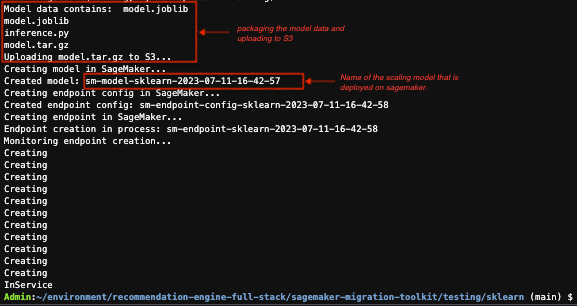
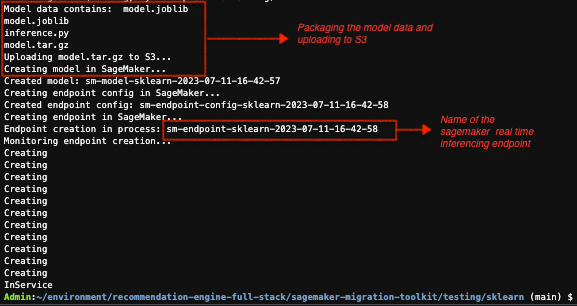
Updates README.md - Draft 1

Changed region(s): [[0.0, 0.0, 0.8111, 0.2941], [0.2808, 0.3824, 0.6863, 0.4706], [0.6863, 0.3824, 0.9359, 0.5]]

diff --git a/tutorials/recommendation-engine-full-stack/index.md b/tutorials/recommendation-engine-full-stack/index.md
@@ -159,26 +159,43 @@ Here is how the output will look like on the Cloud9 Console once the custom scal
 
 10. (Optional steps for testing the custom endpoint after deployment). Copy the sagemaker endpoint from above in the command below and execute to replace the SAGEMAKER-ENDPOINT in localtest.sh file
 ```bash 
-sed -i s@SAGEMAKER-ENDPOINT@xx-xx-xx-xxxx-xx-xx-xx-xx-xx@g localtest.sh
+sed -i s@SAGEMAKER-ENDPOINT@sm-endpoint-sklearn-xxxx-xx-xx-xx-xx-xx@g localtest.sh
 ```
 
 11. Next execute the below command and check if you have got responses in a file named prediction_response.json
 ```bash
 sh localtest.sh
 ```
-- You responses should look as follows: -
+- If you send an input with movie attributes as follows:- 
+```bash
+aws sagemaker-runtime invoke-endpoint \
+	--endpoint-name ${ENDPOINT_NAME} \
+	--body '{"startYear":[2015], "runtimeMinutes":[150],"Thriller":[1],"Music":[0],"Documentary":[0],
+                    "Film-Noir":[0],"War":[0],"History":[0],"Animation":[0],"Biography":[0],
+                    "Horror":[0],"Adventure":[0],"Sport":[0],"Musical":[0],
+                    "Mystery":[0],"Action":[0],"Comedy":[0],"Sci-Fi":[1],
+                    "Crime":[0],"Romance":[0],"Fantasy":[0],"Western":[0],
+                    "Drama":[0],"Family":[0],
+                    "averageRating":[7],"numVotes":[50]}' \
+	--content-type 'application/json' 
+``` 
+Then your responses should look as follows in the `prediction_response.json` file. These values represent the movie attributes converted into numeric values and on the same scale: -
+```bash
+{"Output":"[[0.7641384601593018, 2.2621326446533203, 2.6349685192108154, -0.19743624329566956, -0.27217793464660645, -0.10682649910449982, -0.17017419636249542, -0.20378568768501282, -0.18412098288536072, -0.2402506023645401, -0.29970091581344604, -0.3280450105667114, -0.14215995371341705, -0.14177125692367554, -0.27615731954574585, -0.42369410395622253, -0.7180797457695007, 5.349470615386963, -0.43502309918403625, -0.46801629662513733, -0.22049188613891602, -0.1328728199005127, -1.1882809400558472, -0.21341808140277863, 0.5960079431533813, -0.24598699808120728]]"}
+```
 
-12. This concludes the deployment of the custom scaling model. Now if you go to the AWS console, you can see that the 2 real time inferencing endpoints for the custom scaling model and the K Means clustering algoritm is now deployed in sagemaker console as follows:-
-
-
+12. This concludes the deployment of the custom scaling model. Now if you go to the AWS console, you can see that the 2 real time inferencing endpoints for the custom scaling model and the K Means clustering algoritm is now deployed in sagemaker console as follows. :-  
+![Deployed endpoints in sagemaker](images/sagemaker-deployedendpoints.png) 
 
 
 ## Deploying the REST API's fronting the sagemaker model endpoints 
-1. Let us now create the API's using [Chalice framework](https://github.com/aws/chalice) which makes the creation of Lambda and API gateway very easy. Use the same Cloud 9 environment to setup Chalice and build the REST API's which will invoke the Sagemaker Model endpoints. For the purpose of next steps go to the root of the Cloud 9 environment as follows : - 
+
+1. Let us now create the API's using [Chalice framework](https://github.com/aws/chalice) which makes the creation of Lambda and API gateway very easy. Use the same Cloud 9 environment to setup Chalice and build the REST API's which will invoke the Sagemaker Model endpoints.  The first REST API that we will be building is the Cluster REST API which will invoke the Custom Scaling Sagemaker Endpoint and the Kmeans Clustering Endpoint and return the  cluster number to be used for returning the list of movies. For the purpose of next steps login to the same Cloud9 IDE that you have used so far and go to the root of the  Cloud9 environment by executing the following command on the Cloud9 terminal as follows : - 
 ```bash
 cd ~/environment
 ```
-2. To see hidden files in Cloud9 IDE , click on the gear icon and Click on Show environment root and show hidden files. This will enable you to see teh .chalice folder once you install teh chalice frmework via the commands in the next step.
+2. To see hidden files in Cloud9 IDE , click on the gear icon and Click on Show environment root and show hidden files. This will enable you to see the .chalice folder once you install the chalice framework via the commands in the next step. This is how the Cloud9 console should look like. :-  
+![Deployed endpoints in sagemaker](images/cloud9gear.png) 
 
 3. Now install Chalice as follows:
 ```bash
@@ -200,18 +217,21 @@ chalice new-project sagemaker-apigateway-lambda-chalice
     }
 }
 ```
-5. Execute the below command on teh Cloud 9 terminal. Replace with correct region in which you are executing this tutorial
+5. Execute the below command on the Cloud 9 terminal. Replace with correct region in which you are executing this tutorial
 ```bash
 export AWS_DEFAULT_REGION=us-east-1
 ```
-6. Copy `requirements.txt` and `app.py` files from the `recommendation-engine-full-stack/apis_for_sagemaker_models chalice_custom_scaling_kmeans_api` folder to the root of the chalice project sagemaker-apigateway-lambda-chalice. Let's take a quick look at the `app.py` file. The `app.py` file receives teh JSON Request from the movie attributes from the front end and invokes the 2 model endpoints for the custom scaling model and the kmeans clustering model deployed on sagemaker.
-Hence make sure to replace with the correct sagemaker endpoint name  for the custom scaling model and the kmeans model in this section of the code in app.py as shown below
+6. Copy `requirements.txt` and `app.py` files from the `recommendation-engine-full-stack/apis_for_sagemaker_models chalice_custom_scaling_kmeans_api` folder to the root of the chalice project sagemaker-apigateway-lambda-chalice. Let's take a quick look at the `app.py` file. The `app.py` file receives the JSON Request from the movie attributes from the front end and invokes the 2 model endpoints for the custom scaling model and the kmeans clustering model deployed on sagemaker.
+Here is how my setup looks like. :-  
+![Deployed endpoints in sagemaker](images/chaliceSetup.png) 
+
+Hence make sure to replace with the correct sagemaker endpoint name  for the custom scaling model and the kmeans model in this section of the code in `app.py` in teh chalice project `sagemaker-apigateway-lambda-chalice` as shown below
 ```bash
 .....
 ......
 .....
     res = sagemaker.invoke_endpoint(
-        EndpointName='sm-endpoint-sklearn-xxxxxx',
+        EndpointName='sm-endpoint-sklearn-xxxx-xx-xx-xx-xx-xx',
         Body=result,
         ContentType='application/json',
         Accept='application/json'
@@ -223,11 +243,18 @@ responsekmeans = sagemaker.invoke_endpoint(EndpointName="kmeans-xxxxxx", Content
 .....
 ....
 ```
-7. In `sagemaker-apigateway-lambda-chalice` folder execute `chalice deploy`
-8. Once the REST API is deployed this is how your Cloud 9 console should look like :-
+7. At the root of  `sagemaker-apigateway-lambda-chalice` folder execute 
+```bash
+chalice deploy
+```
+
+8. Once the Lambda function and API Gateway REST API endpoints are deployed you will get a REST API url on the Cloud9 console in the form as `https://xxxxxxx.execute-api.region.amazonaws.com/api/`.
+This REST API will return the Cluster Number based on the movie attributes passed to it. We will be substituting this REST API endpoint in the UI Code later on. If you go to the AWS console, you can check the Lambda function and the API Gateway REST endpoints created by Chalice.
+
+
 9. For testing the deployed API do the following from teh Cloud 9 terminal
 ```bash
-curl -X POST https://xxxxxx.execute-api.us-east-1.amazonaws.com/api -H 'Content-Type: application/json' -d @- <<BODY 
+curl -X POST https://xxxxxxx.execute-api.us-east-2.amazonaws.com/api/ -H 'Content-Type: application/json' -d @- <<BODY 
 { 
     "startYear":"2015","runtimeMinutes":"100","Thriller":"1","Music":"0", 
     "Documentary":"0","Film-Noir":"0","War":"0","History":"0","Animation":"0",
@@ -237,19 +264,22 @@ curl -X POST https://xxxxxx.execute-api.us-east-1.amazonaws.com/api -H 'Content-
 }
 BODY
 ```
+On succesful execution of the above request, you will get a Cluster number. Here is how my Cloud9 terminal looks like after getting back the response. :-  
+![REST API Response for Cluster Number based on movie attributes](images/clusternumber.png) 
+
 10. Test with Postman (Optional)
 Example of Postman POST payload is 
 ```bash
 {"startYear":"2015","runtimeMinutes":"100","Thriller":"1","Music":"0","Documentary":"0","Film-Noir":"0","War":"0","History":"0","Animation":"0","Biography":"0","Horror":"0","Adventure":"1","Sport":"0","News":"0","Musical":"0","Mystery":"0","Action":"1","Comedy":"0","Sci-Fi":"1","Crime":"1","Romance":"0","Fantasy":"0","Western":"0","Drama":"0","Family":"0","averageRating":"7","numVotes":"50"
 }
 ```
-11. Next we create the 2nd chalice project for teh 2nd REST API. We go to the root of the Cloud 9 environment by doing `cd ~/environment`
+11. Next we create the 2nd chalice project for the 2nd REST API which takes the Cluster Number as an input and returns back teh list of movies belonging to that Cluster from our Augmented data that we saved in the Glue database. We go to the root of the Cloud 9 environment by doing `cd ~/environment`
 on the Cloud 9 terminal and then create a new chalice project by executing
 ```bash
   chalice new-project query-athena-boto3
 ```
-  - Add requirements.txt and app.py contents to the root of the project from the chalice_query_api folder. 
-  - Update role in config.json for this project by replacing with the correct iam_role_arn value. The config.json shoudl like below 
+  - Add requirements.txt and app.py contents from the cloned github repo folder `recommendation-engine-full-stack/apis_for_sagemaker_models/chalice_query_api` folder to the root of the chalice project `query-athena-boto3`.
+  - Update role in config.json for this project by replacing with the correct iam_role_arn value. The config.json should look like below 
   ```bash
   {
         "version": "2.0",
@@ -263,29 +293,37 @@ on the Cloud 9 terminal and then create a new chalice project by executing
         }
   }
   ```
-   - Create query_results folder in the S3 bucket that you have been using so far
    - Execute the following command
    ```bash 
    cd query-athena-boto3/
    sed -i s@BUCKET_NAME@<Replace with your bucket name>@g app.py
    chalice deploy
    ```
-12. Curl command for testing 
+12. Next execute the curl command for testing the deployed API Gateway REST API endpoint. Replace `https://yyyyyyy.execute-api.us-east-2.amazonaws.com/api/` with the correct Deployed URL. In the request below I pass cluster number as 1.
 ```bash
-curl -X POST https://xxxxxxx.execute-api.us-east-1.amazonaws.com/api \ 
--H 'Content-Type: application/json' \
--d '{"cluster":"1.0"}'  
+curl -X POST https://yyyyyyy.execute-api.us-east-2.amazonaws.com/api/ -H 'Content-Type: application/json' -d '{"cluster":"1.0"}'  
 ```
+13. Next let's move on to the final step of Integrating the 2 API Gateway REST API endpoints with our UI code.
 
 ## Integrate the API's with our fancy UI.
-1. Download the html file locally , modify the cluster and recommendation url api's with the actual API urls and see the end result from the UI.
-Here is how my UI looks when everything is hooked up:<br/>
+1. Download the html file locally on your machine from the Cloud9 Console and go to the cloned GitHub Repo Folder  , modify the cluster and recommendation url api's with the actual API urls and see the end result from the UI. The image below will show how to doanload the UI file and the changes for REST API endpoints that need to be made in that file. :- 
+
+![Modified UI Code](images/SetupUI.png) 
+
+Here is how my UI looks when everything is hooked up and the file is opened from the browser: Enter teh criteria like start Year, runtime Minutes, Rating, Number of Votes and the Genres:-<br/>
+
 ![plot](images/myflix1.png)<br/>
 ![plot](images/myflix2.png)<br/>
 ![plot](images/myflix3.png)<br/>
 
 ## Clean up
-10. Following command to delete the stack. 
+1. Go to the Cloud9 console and go to the root of the chalice project `sagemaker-apigateway-lambda-chalice` and execute `chalice delete`. This will delete the lambda and API gateway endpoint for the REST API #1.
+2. Go to the Cloud9 console and go to the root of the chalice project `query-athena-boto3` and execute `chalice delete`. This will delete the lambda and API gateway endpoint for the REST API #2.
+3. From the AWS console, go to Sagemaker Service -> Inference ->  Endpoints and Delete the 2 Sagemaker Model Endpoints.
+4. Delete the AWS Cloud9 Environment.
+5. Delete the contents of the S3 bucket that was created by the Cloudformation template. Thsi will allow the deletion of the S3 bucket when you delete the Cloudformation stack.
+5. Dlete the main-stack.yaml from AWS Cloudformation console which is the parent level stack for the entire nested stack and that will delete all the remaining deployed resources. 
+
 
 🎥 Here is a video containing a hands-on implementation about this section.
 
